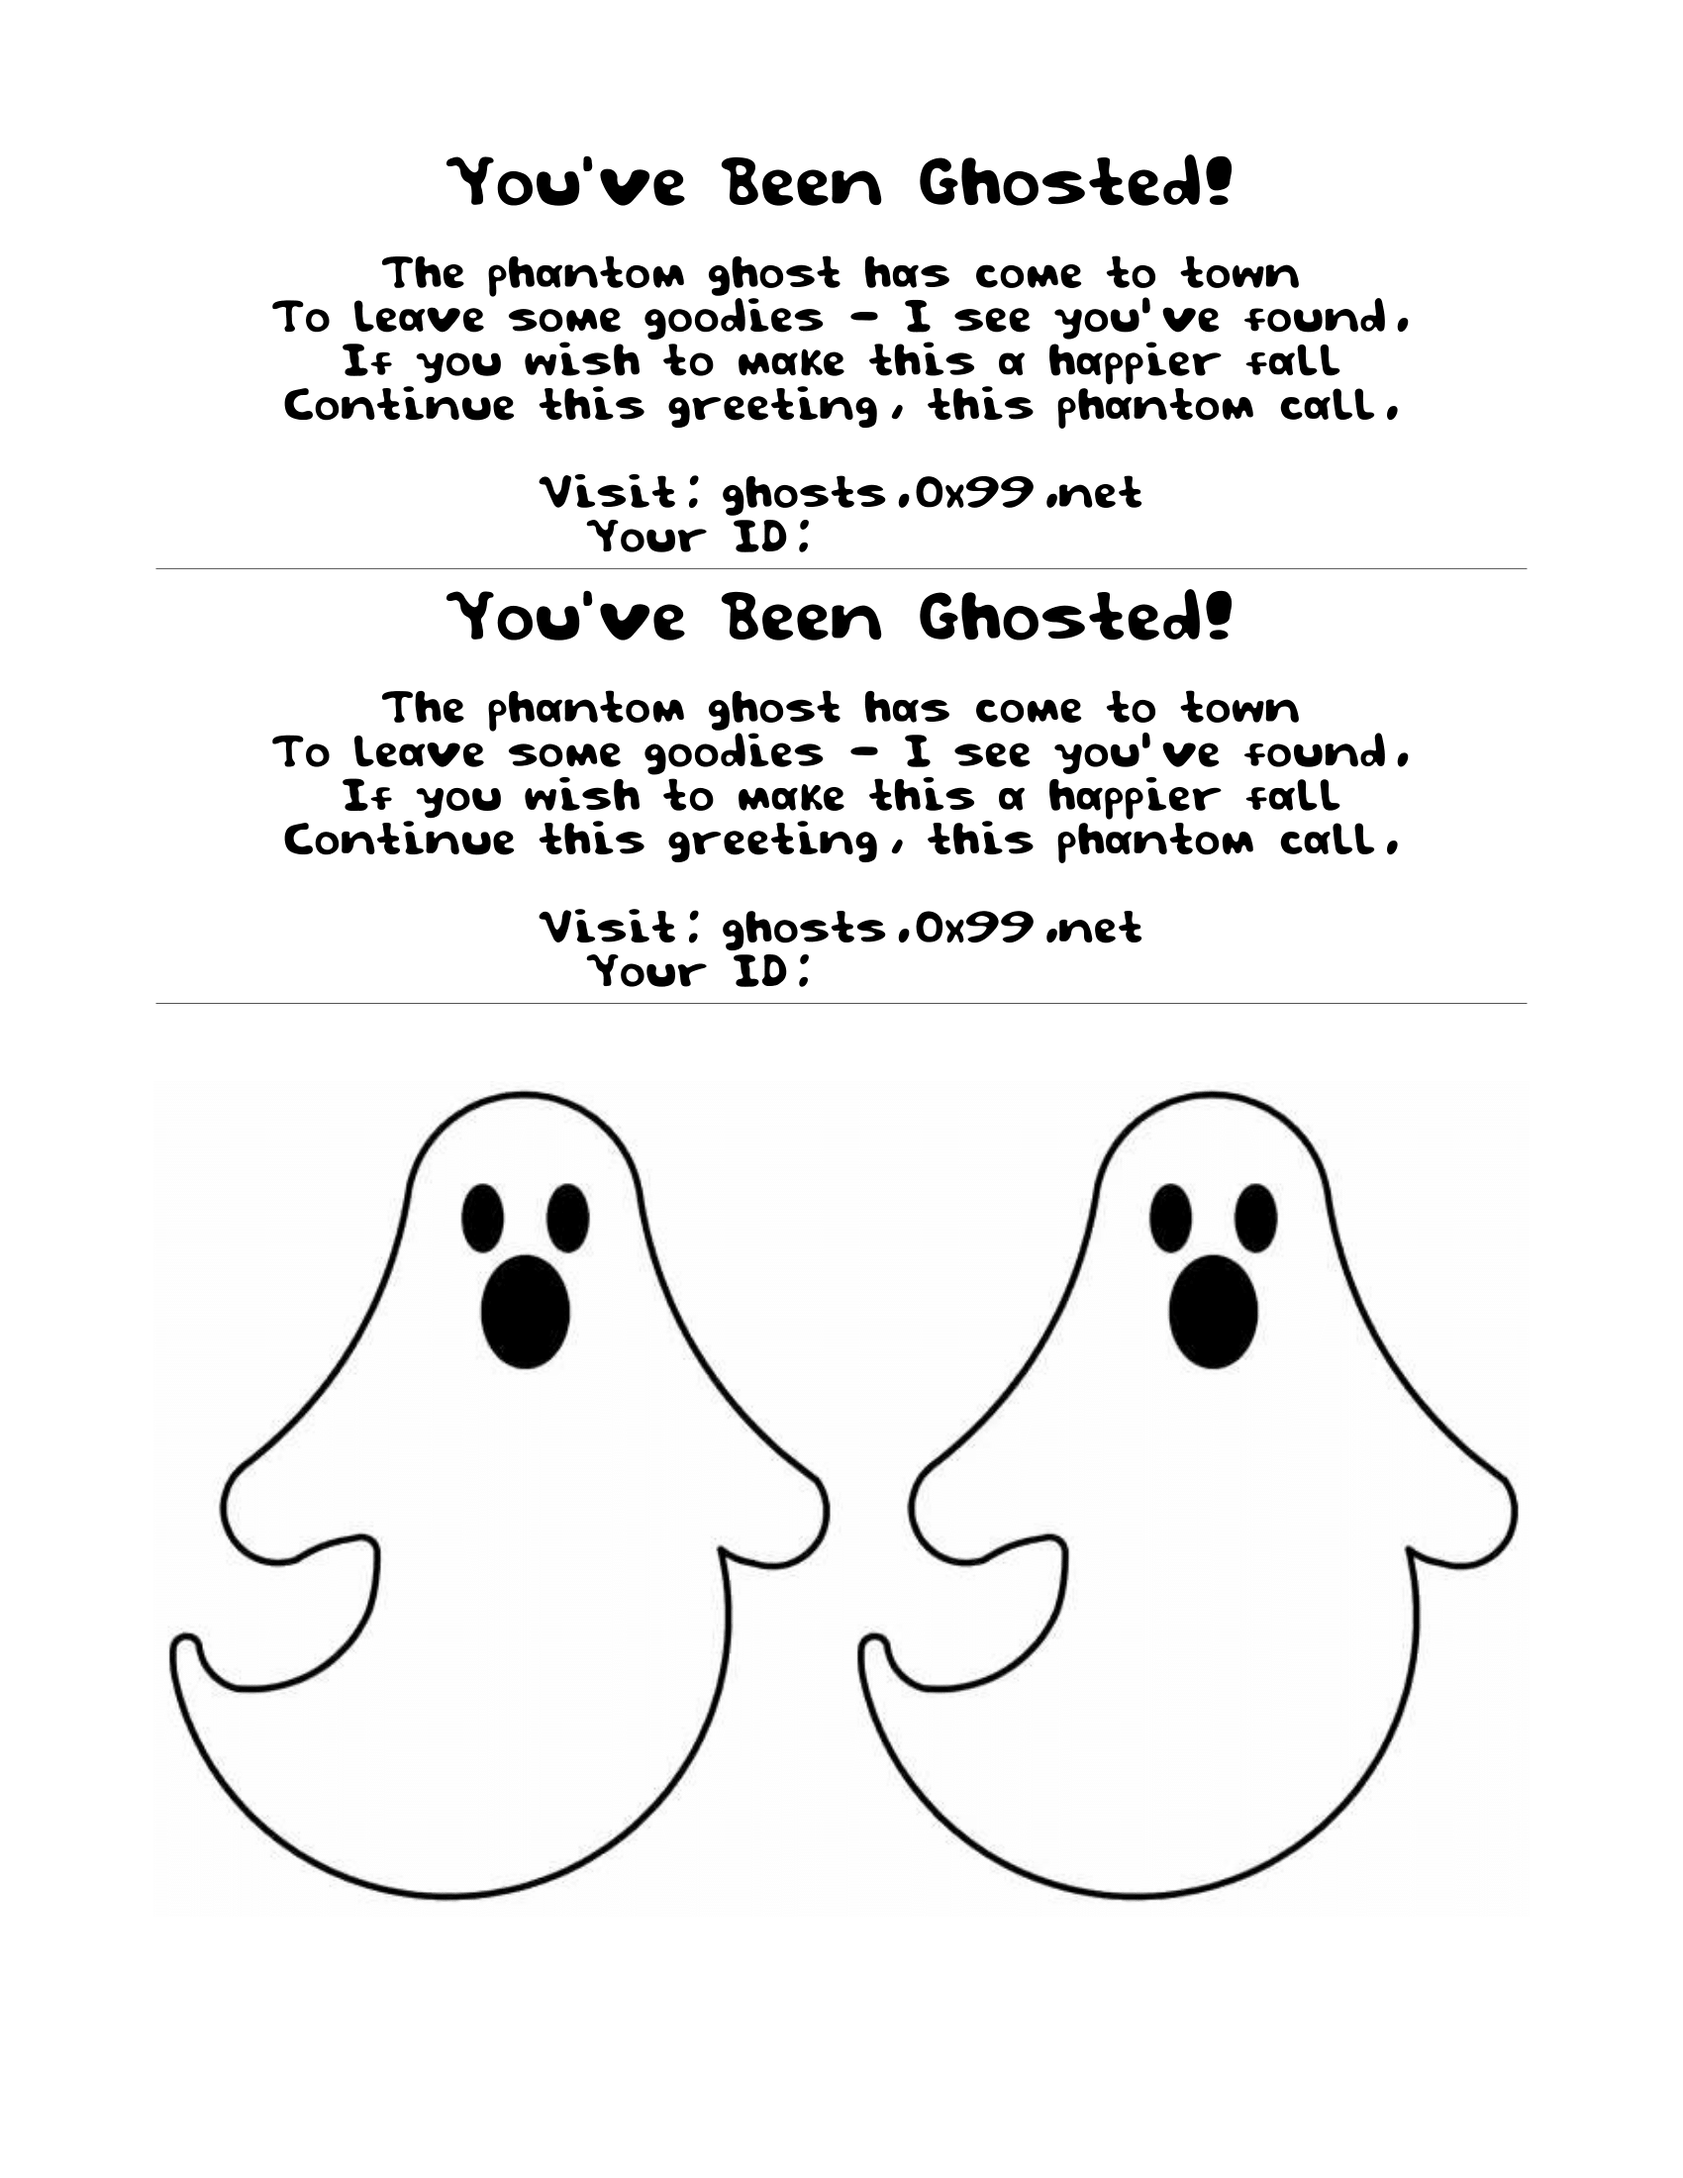
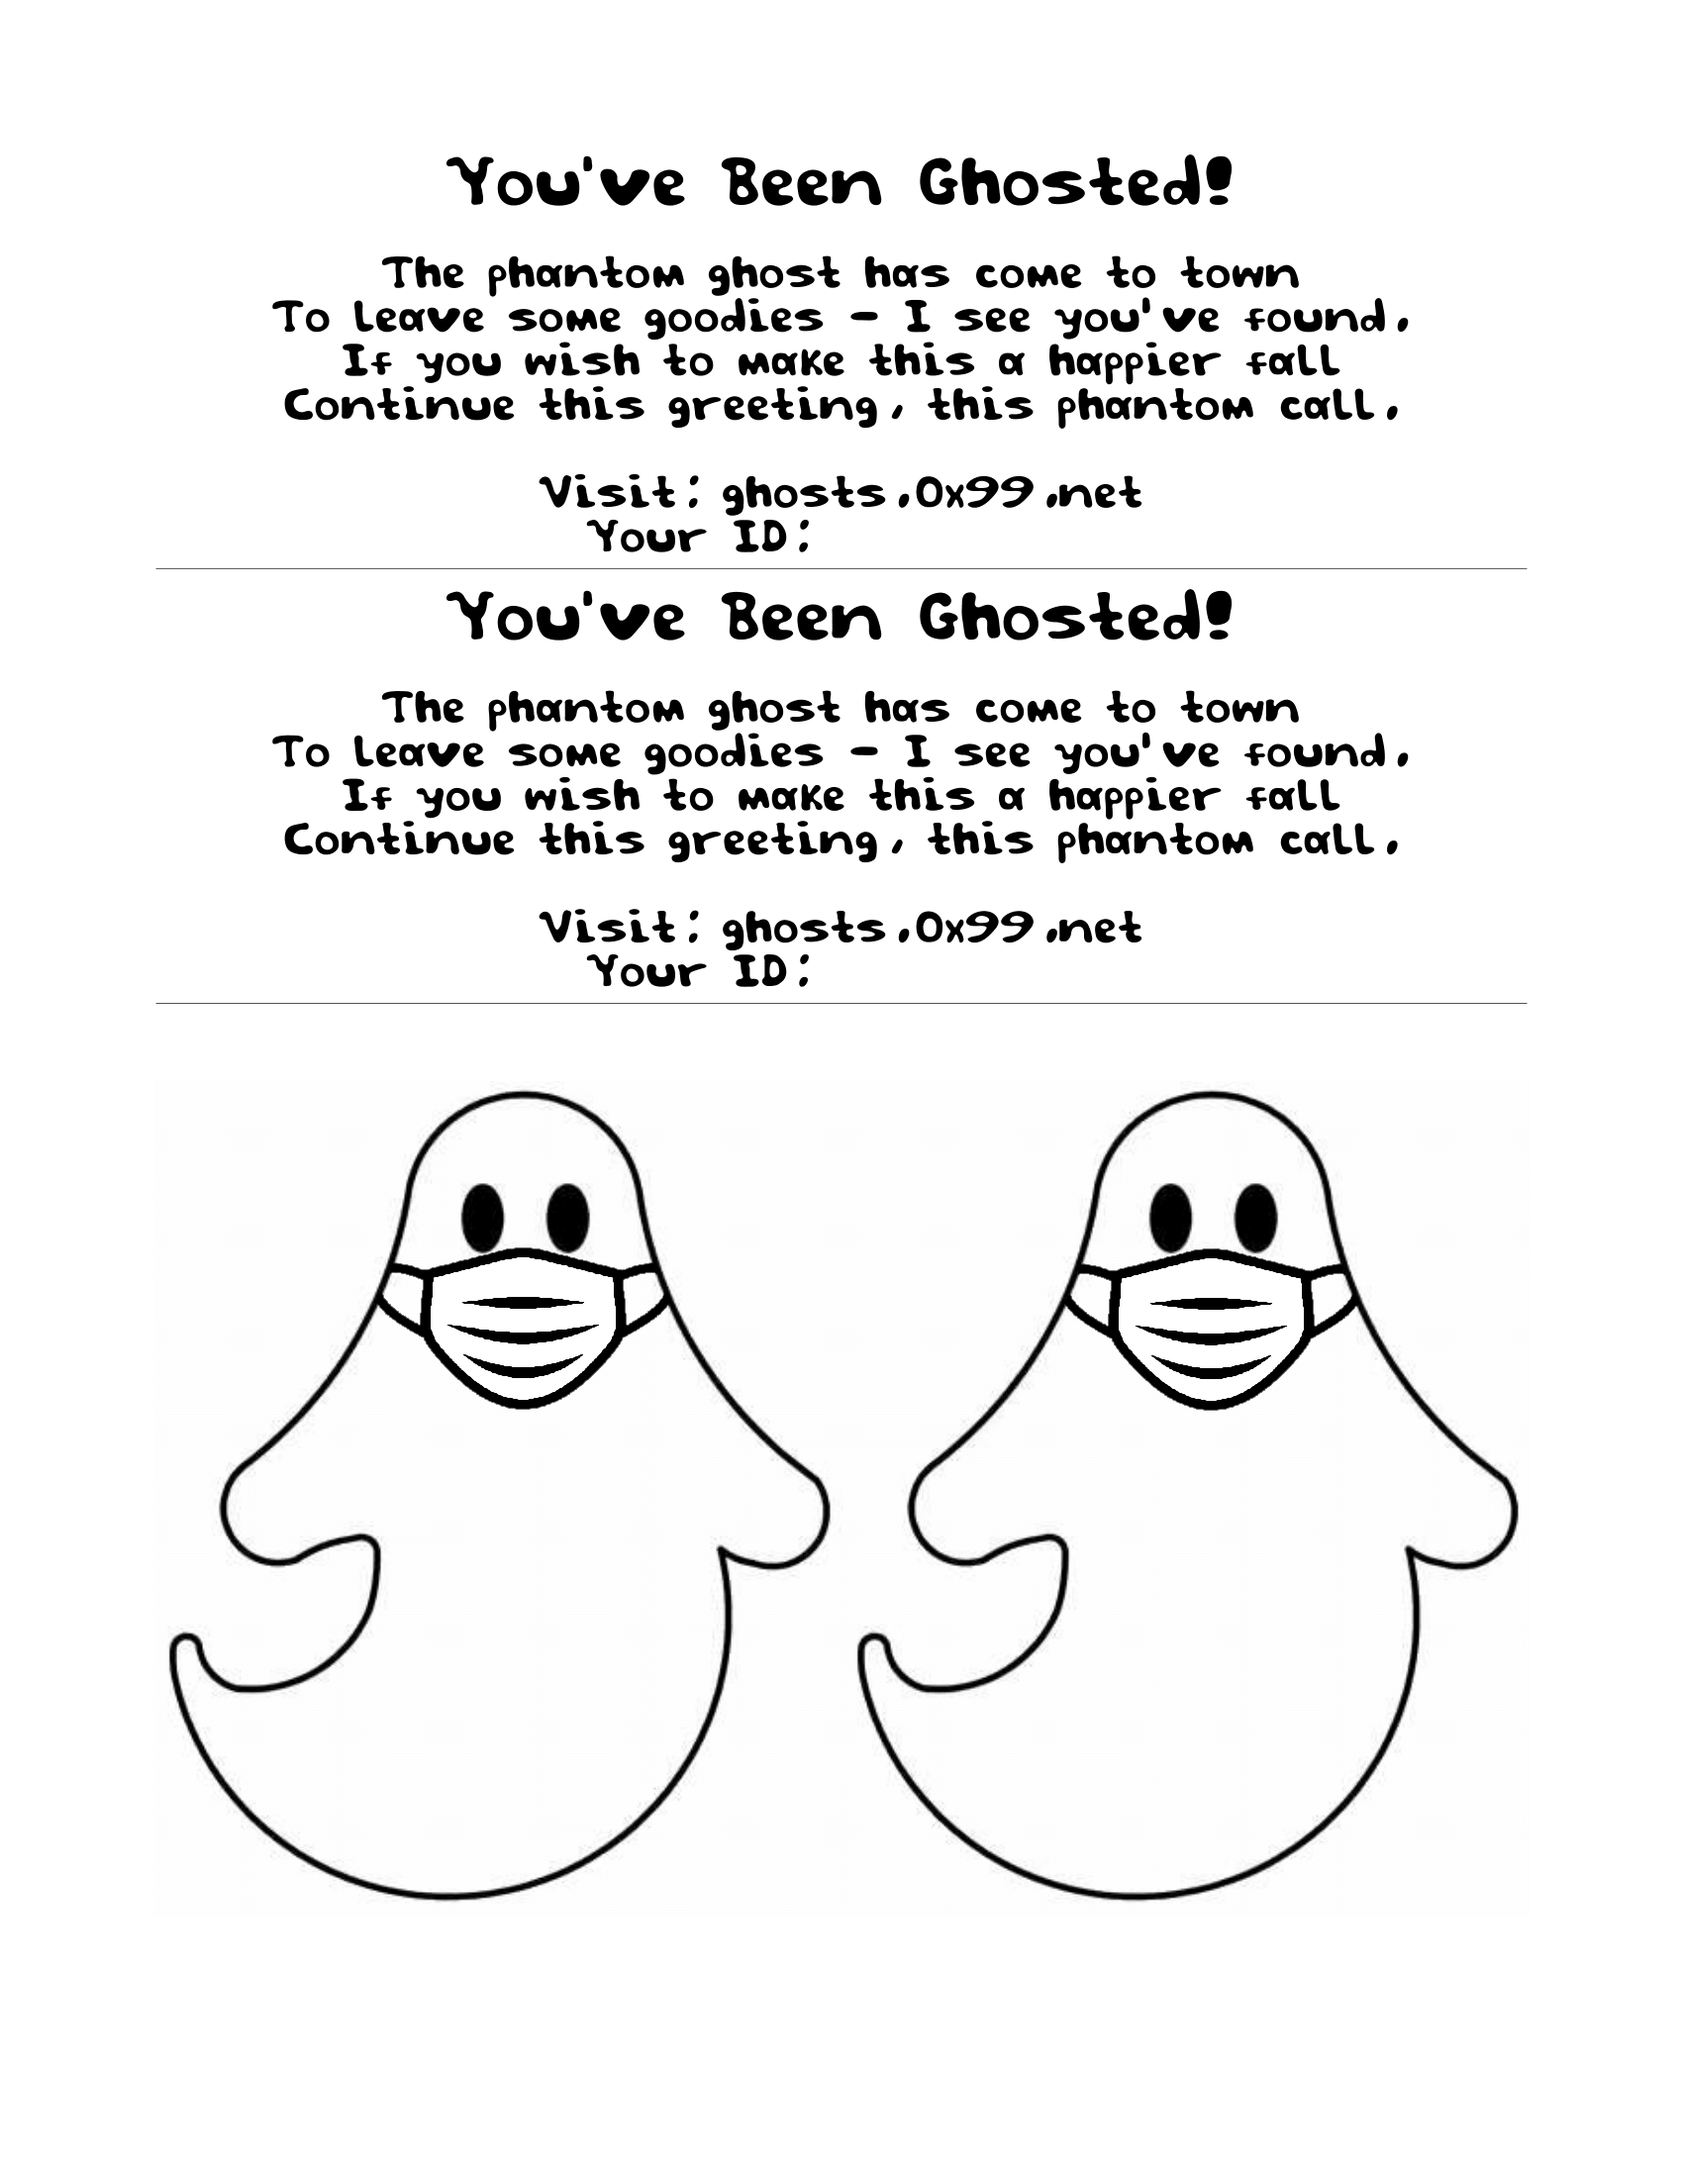
Masked up ghosts

Changed region(s): [[0.6235, 0.5564, 0.8106, 0.6491], [0.2182, 0.5564, 0.4053, 0.6491]]

diff --git a/ghosted/static/js/haunt.js b/ghosted/static/js/haunt.js
@@ -1,0 +1,55 @@
+function download_ghosts() {
+  document.getElementById('filedownload').src = '/haunt/download?r=' + Math.random();
+}
+
+
+function update_ghosts(ghosts) {
+  const ghost_id = document.getElementById("uid").innerHTML;
+  const ghostIconURL = document.getElementById('ghost').innerHTML;
+  const ghostOIconURL = document.getElementById('ghost-o').innerHTML;
+
+  const nodes = new vis.DataSet(ghosts.reduce(function(acc, cur) {
+    if (cur.is_active) {
+      acc.push({
+        id: cur.id,
+        image: ghost_id == String(cur.id) ? ghostOIconURL : ghostIconURL,
+        size: (cur.children.length*3 + 20),
+        shape: 'image',
+        color: {
+          border: '#999'
+        }
+      });
+    }
+
+    return acc;
+  }, []));
+
+
+  const edges = new vis.DataSet(ghosts.reduce(function(acc, cur) {
+    return acc.concat(cur.children.map(function(child) {
+      return {
+        from: cur.id,
+        to: child.id,
+        arrows: 'to'
+      };
+    }));
+  }, []));
+
+  const netdata = {
+    nodes: nodes,
+    edges: edges
+  };
+
+  const options = {};
+
+  const container = document.getElementById("ghostView");
+
+  const network = new vis.Network(container, netdata, options);
+}
+
+
+document.addEventListener('DOMContentLoaded', function() {
+  const ghosts = JSON.parse(document.getElementById('ghosts').innerHTML);
+
+  update_ghosts(ghosts);
+})

diff --git a/ghosted/views.py b/ghosted/views.py
@@ -31,23 +31,21 @@ def home():
 
   return redirect(url_for('views.haunt'))
 
-@views.route('/haunt', methods=['GET', 'POST'])
+@views.route('/new')
+def new_haunt():
+  haunt = Haunt()
+  db.session.add(haunt)
+
+  new_root = Spectre(ghost_id=generate_gids(1)[0], is_root=True, is_active=True, haunt=haunt)
+  db.session.add(new_root)
+
+  db.session.commit()
+
+  session['id'] = new_root.ghost_id
+  return redirect(url_for('views.haunt'))
+
+@views.route('/haunt')
 def haunt():
-  if request.method == 'POST':
-    haunt = Haunt()
-
-    db.session.add(haunt)
-    db.session.commit()
-
-    new_root = Spectre(ghost_id=generate_gids(1)[0], is_root=True, is_active=True, haunt=haunt)
-
-    db.session.add(new_root)
-    db.session.commit()
-
-    session['id'] = new_root.ghost_id
-
-    return redirect(url_for('views.haunt'))
-
   ghost_id = session.get('id')
 
   if not ghost_id:
